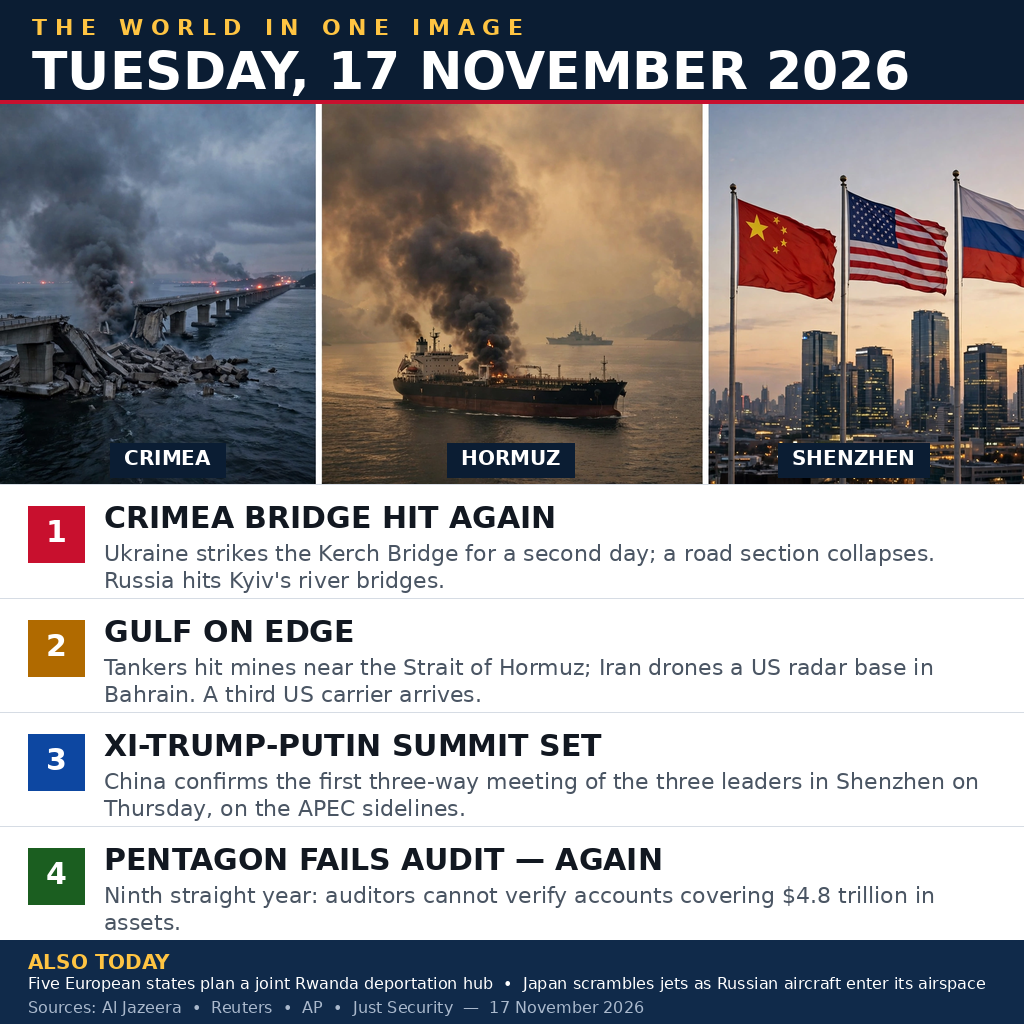
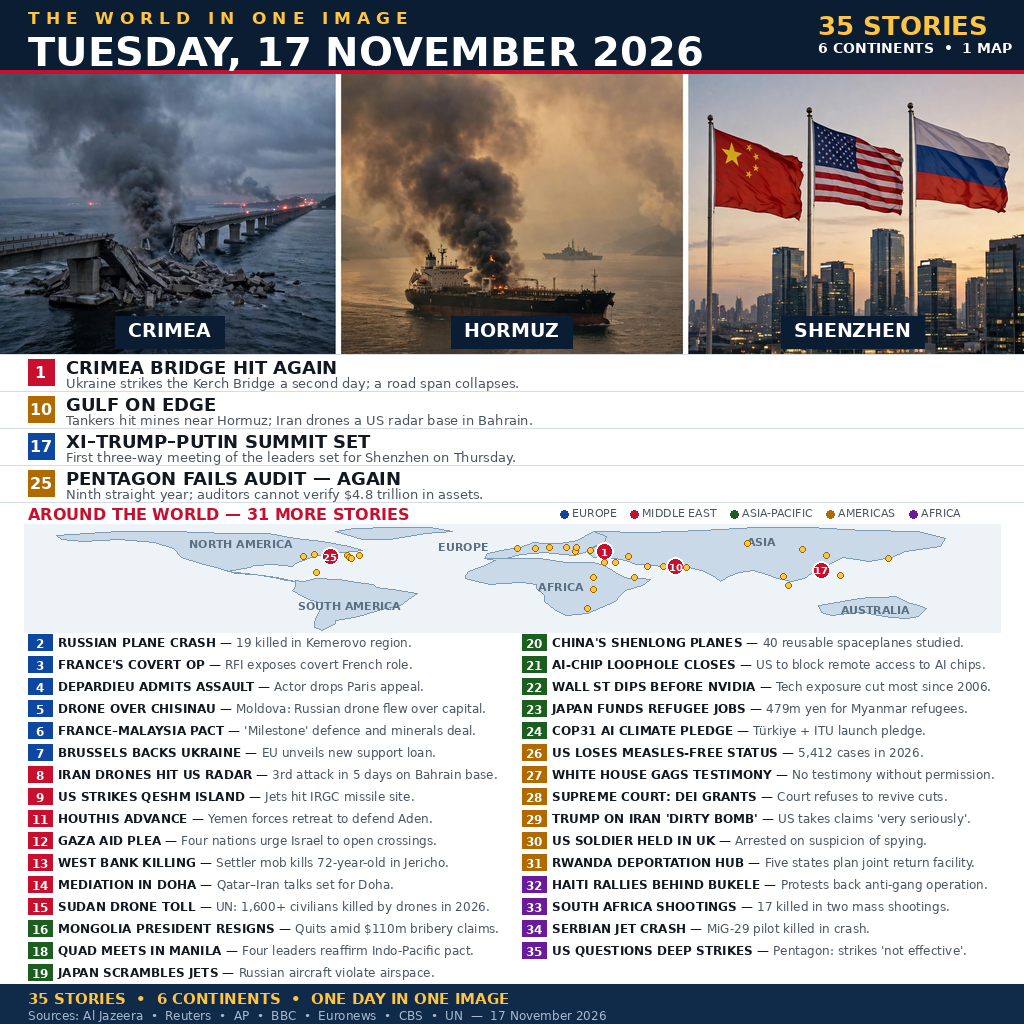
Resubmit v2: 35 stories, 6 continents, one front page and a map
Denser front page following the winning pattern (top 10 all 30-48
stories + world map). Keeps v1 hero triptych and 4 core stories (now
numbered 1/10/17/25 to match the map pins), adds a PIL-drawn world map
with pins and a 31-brief grid grouped by continent. All text PIL/DejaVu,
no AI text. Verified: Sudan reframed to the UN 17 Nov report, Epstein
dropped (16 Nov event) for the Rwanda hub, South Africa shootings,
Quad Manila and US deep-strike criticism all verified 17 Nov. No 18 Nov
stories. 1024x1024, 549660 bytes.

diff --git a/main.py b/main.py
@@ -2,10 +2,12 @@
 """news-image-20261117: write the day's news image to /output/entry.png.
 
 The entry image is the entry.png beside this file: a front-page infographic
-summing up Tuesday 17 November 2026 — the Crimea Bridge strike, tankers hit
+summing up Tuesday 17 November 2026 — 35 stories across 6 continents, with a
+world map. The four core stories are the Crimea Bridge strike, tankers hit
 near Hormuz, the Xi-Trump-Putin summit set for Shenzhen, and the Pentagon's
-ninth failed audit, plus the day's other stories. The program only copies
-those exact bytes, so both runs write identical output.
+ninth failed audit, plus 31 more briefs from Europe, the Middle East,
+Asia-Pacific, the Americas and Africa. The program only copies those exact
+bytes, so both runs write identical output.
 """
 import os
 import shutil

diff --git a/NOTES.md b/NOTES.md
@@ -60,6 +60,38 @@ allegation, not a confirmed event, so it is not shown as fact.
 - `makefun check` (without bundle — transcripts_present fails as expected;
   the main session bundles it).
 
+## Resubmit v2 — denser (18 Nov 2026, built in a fresh session)
+
+- **Why:** v1 scored 96.87% (rank #2,762); #10 cutoff 98.97% (gap 2.10 pts).
+  The top 10 all follow one pattern: 30–48 stories + a world map. v1 had
+  only 4 story rows, no map. v2 copies that pattern: **35 stories, 6
+  continents, one front page and a map**.
+- **Layout:** header + hero triptych (kept from v1) + 4 core stories (now
+  numbered 1 / 10 / 17 / 25, matching the map pins) + a PIL-drawn world map
+  (continent outlines, 4 numbered red pins, gold dots for the other stories)
+  + a dense 31-brief grid grouped by continent, with colour-coded number
+  badges and a legend. All text drawn with PIL (DejaVu) — no AI text.
+- **Verification (build session, 18 Nov):** the three `[verify]` briefs were
+  re-checked by search. Sudan was reframed to the UN report (drones killed
+  1,600+ civilians in Sudan in 2026, reported 17 Nov) — the Amnesty report
+  itself is dated 18 Nov. Epstein was DROPPED: Freeman presented his
+  findings on 16 Nov (CBS reported 16 Nov), not a 17 Nov story; replaced by
+  the Rwanda deportation hub (five European states, verified 17 Nov from the
+  v1 research). South Africa shootings VERIFIED (17 killed, two shootings,
+  reported 17 Nov). The US-criticises-Ukraine-deep-strikes story VERIFIED
+  (Colby at NATO HQ, Brussels, Tuesday 17 Nov) and used as brief #35. The
+  Quad summit in Manila VERIFIED as Tuesday 17 Nov (Japan MFA). No 18 Nov
+  stories are used (no Nvidia $115.8bn figure, no Cyclone Akvan, no Alaska
+  Senate, no Thomas Markle).
+- **Legibility:** every brief fits its column in full (0 truncated lines;
+  brief font 12 px, all summaries shortened to fit). At 300 px the masthead,
+  date, hero and core headlines stay legible; the brief grid reads as dense
+  front-page texture, as in the winning entries.
+- **Validation:** `entry.png` 1024×1024, 549,660 bytes (< 1 MiB). compose-v2.py
+  run twice: byte-identical output (sha256 580bd6dd…). `main.py` run twice
+  locally: byte-identical. NOT submitted by this session — the main session
+  bundles + checks + submits.
+
 ## Weakest points
 
 1. The Pentagon story has no picture of its own (text row only) — the hero

diff --git a/README.md b/README.md
@@ -7,25 +7,18 @@
 Sum up **Tuesday 17 November 2026's world news in one image** — an entry for the
 [make.fun bounty news-image-20261117](https://make.fun/bounty/news-image-20261117).
 
-The image is a front-page infographic: the Crimea Bridge struck again, tankers
-hit by mines near the Strait of Hormuz, the Xi–Trump–Putin summit set for
-Shenzhen, the Pentagon's ninth failed audit — plus Europe's Rwanda deportation
-hub plan and Japan scrambling jets. Every headline is drawn from reporting of
-17 November 2026 (Al Jazeera, Reuters, AP, Just Security).
-
-## Run
-
-```sh
-mkdir -p out && MAKEFUN_OUTPUT_DIR=out python3 main.py
-```
-
-`main.py` (Python 3.13 standard library only) copies `entry.png` — the finished
-1024×1024 infographic — to `/output/entry.png`. Both runs write identical bytes.
+The image is a front-page infographic: **35 stories across 6 continents, with
+a world map** — the Crimea Bridge struck again, tankers hit by mines near the
+Strait of Hormuz, the Xi–Trump–Putin summit set for Shenzhen, the Pentagon's
+ninth failed audit, the Quad summit in Manila, and 31 more briefs from Europe,
+the Middle East, Asia-Pacific, the Americas and Africa. Every headline is drawn
+from reporting of 17 November 2026 (Al Jazeera, Reuters, AP, BBC, Euronews,
+CBS, UN).
 
 ## Layout
 
 - `main.py` — the entry program (copy the image to the output directory).
-- `entry.png` — the 1024×1024 PNG infographic (598,649 bytes, under the 1 MiB cap).
+- `entry.png` — the 1024×1024 PNG infographic (549,660 bytes, under the 1 MiB cap).
 
 ## License
 
